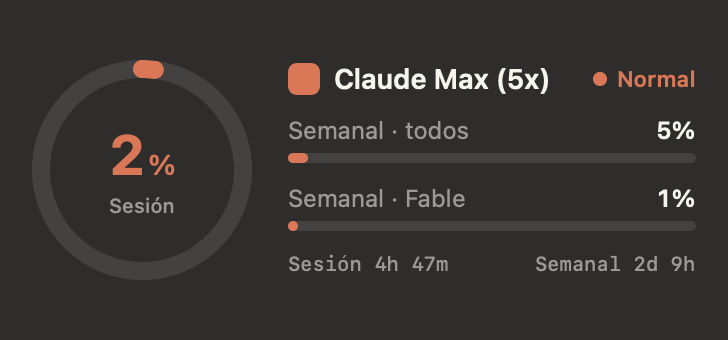
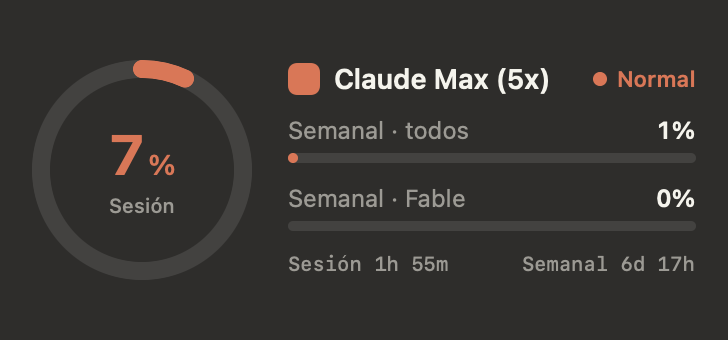
Capturas del README con los datos actuales y el aviso de sesión caducada
Las cuatro capturas se regeneran desde las vistas reales, a 2x y con los mismos
tamaños y márgenes que las anteriores. docs/login.png es nueva: el panel con la
sesión caducada y el botón «Iniciar sesión en Claude Code», en la sección de
diagnóstico donde se explica.

diff --git a/README.md b/README.md
@@ -202,6 +202,10 @@ a veces conserva el snapshot anterior tras reinstalar.
 menú del clic derecho) y completa el login en el navegador. Abrir Claude Code una vez
 también sirve: renueva el token, y la app lo recoge en la siguiente consulta.
 
+<p align="center">
+  <img src="docs/login.png" alt="Panel con la sesión caducada y el botón Iniciar sesión en Claude Code" width="290">
+</p>
+
 **Dice que Anthropic está limitando las consultas.** Es un 429 de la API; la app reintenta
 sola a la hora que indica. Con el statusline conectado, sesión y semanal siguen al día
 mientras tanto.
